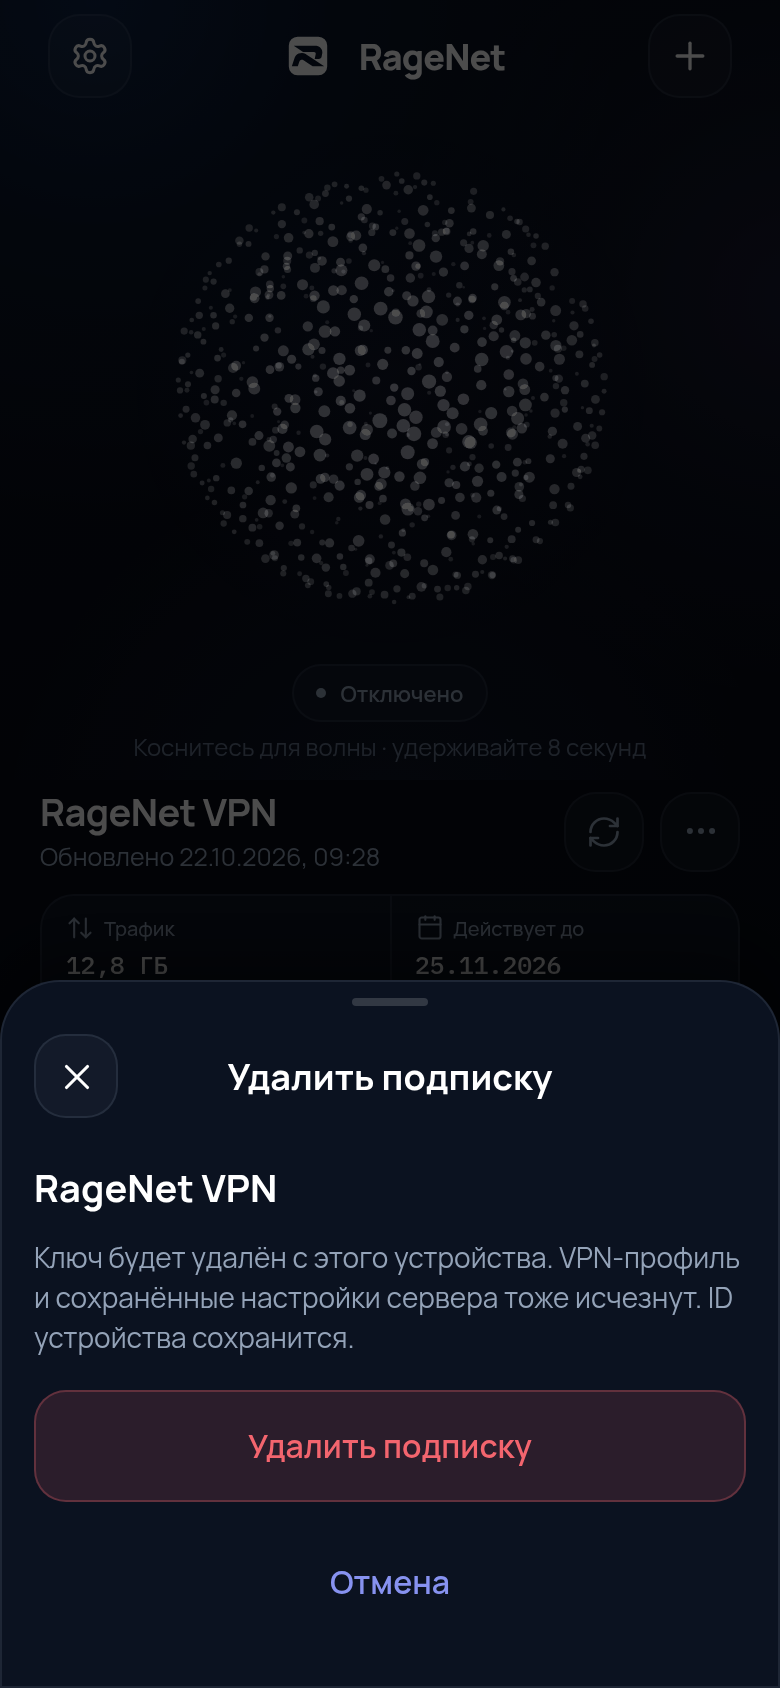
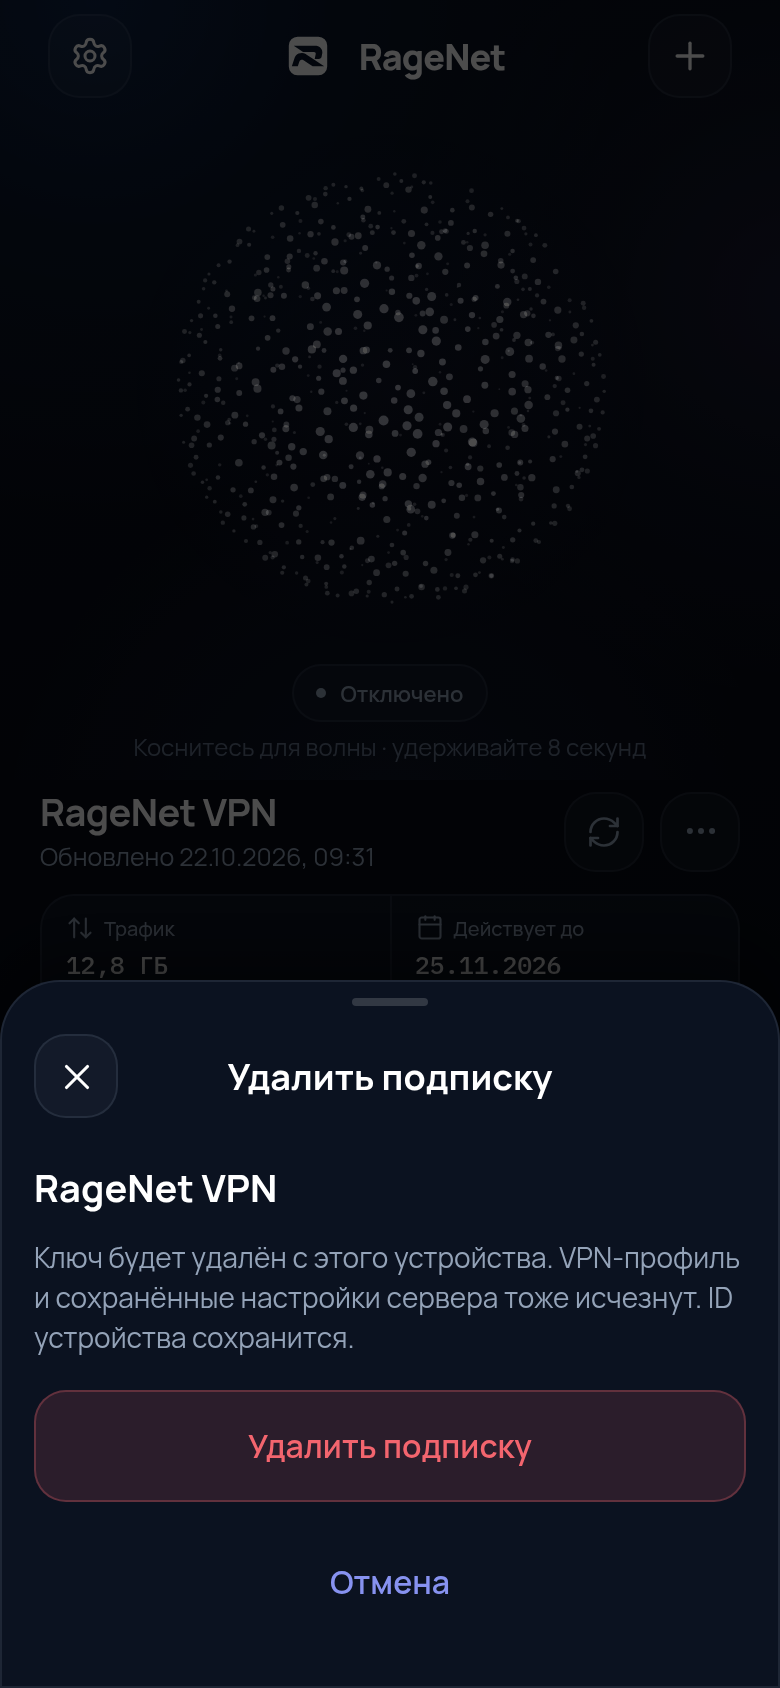
fix(ui): ease the charge tremble and thin the particle cloud

Changed region(s): [[0.2769, 0.1232, 0.6769, 0.3389], [0.7077, 0.1848, 0.7385, 0.2464], [0.4615, 0.4929, 0.4923, 0.5237]]

diff --git a/packages/particles/src/simulation.ts b/packages/particles/src/simulation.ts
@@ -62,6 +62,8 @@ export class ParticleSphereSimulation {
   private waveY = 0.5;
   private waveStrength = 0;
   private gatherLevel = 0;
+  private vibrationLevel = 0;
+  private vibrationTarget = 0;
 
   mode: ParticleMode = 'idle';
   charge = 0;
@@ -125,7 +127,7 @@ export class ParticleSphereSimulation {
       this.velocity[offset + 2] = (random() - 0.5) * 0.02;
 
       this.phase[index] = random() * TAU;
-      this.pointSize[index] = 1.1 + random() * 0.95;
+      this.pointSize[index] = 0.9 + random() * 0.72;
     }
   }
 
@@ -171,6 +173,11 @@ export class ParticleSphereSimulation {
   setGather(value: number): void {
     this.gatherLevel = clamp(value, 0, 1);
     this.gather = this.gatherLevel;
+  }
+
+  /** Visual tremble envelope. Kept separate from charge so it can ramp slowly. */
+  setVibration(value: number): void {
+    this.vibrationTarget = clamp(value, 0, 1.2);
   }
 
   /**
@@ -220,6 +227,7 @@ export class ParticleSphereSimulation {
     if (this.pointerEnergy < 0.001) this.pointerEnergy = 0;
 
     this.chargeLevel += (this.charge - this.chargeLevel) * Math.min(1, step * 8);
+    this.vibrationLevel += (this.vibrationTarget - this.vibrationLevel) * Math.min(1, step * 4);
 
     if (this.reactionActive) {
       this.reactionTime += step;
@@ -258,7 +266,7 @@ export class ParticleSphereSimulation {
     const damping = 7 + this.chargeLevel * 3 + this.gatherLevel * 2;
     const targetJitter =
       0.0025 +
-      this.chargeLevel * 0.018 +
+      this.vibrationLevel * 0.014 +
       (this.mode === 'connecting' ? 0.004 : 0) +
       (this.mode === 'connected' ? 0.0015 : 0) +
       this.impulse * 0.012;
@@ -440,15 +448,16 @@ export class ParticleSphereSimulation {
 
       // Charge feedback is a deliberate high-frequency tremble. It is applied
       // in screen space so it never destabilises the spring simulation.
-      if (this.chargeLevel > 0.001) {
-        const tremble = this.chargeLevel * 4.6;
+      if (this.vibrationLevel > 0.001) {
+        const tremble = this.vibrationLevel * 3.4;
         const phase = this.phase[index];
+        const speed = 0.48 + this.vibrationLevel * 0.82;
         const tremorX =
-          Math.sin(this.time * (22 + phase * 8) + phase * 19) +
-          Math.sin(this.time * (37 + phase * 5) + phase * 7) * 0.45;
+          Math.sin(this.time * (10 + phase * 4) * speed + phase * 19) +
+          Math.sin(this.time * (17 + phase * 3) * speed + phase * 7) * 0.35;
         const tremorY =
-          Math.cos(this.time * (19 + phase * 9) + phase * 23) +
-          Math.cos(this.time * (33 + phase * 6) + phase * 11) * 0.4;
+          Math.cos(this.time * (9 + phase * 5) * speed + phase * 23) +
+          Math.cos(this.time * (15 + phase * 4) * speed + phase * 11) * 0.3;
         screenX += tremorX * tremble;
         screenY += tremorY * tremble;
       }
@@ -457,7 +466,7 @@ export class ParticleSphereSimulation {
       projected[output] = screenX;
       projected[output + 1] = screenY;
       projected[output + 2] =
-        (0.55 + depth * 1.5 + this.chargeLevel * 0.1) *
+        (0.48 + depth * 1.25 + this.chargeLevel * 0.08) *
         (size / 300) *
         this.pointSize[index] *
         (1 + this.reaction * 0.18 + this.burstGlow * 0.2);

diff --git a/packages/ui/src/components/particles/ParticleSphere.tsx b/packages/ui/src/components/particles/ParticleSphere.tsx
@@ -118,6 +118,7 @@ export function ParticleSphere({
     clearTimers();
     stopHapticRamp();
     simulation.setCharge(0);
+    simulation.setVibration(0);
     onChargeProgress?.(null);
   };
 
@@ -127,8 +128,8 @@ export function ParticleSphere({
     clearTimers();
     stopHapticRamp();
     simulation.setCharge(1);
+    simulation.setVibration(1);
     onChargeProgress?.(1);
-    startHapticRamp(GATHER_MS + COMPRESS_HOLD_MS, 220);
 
     const startedAt = performance.now();
     let released = false;
@@ -149,6 +150,7 @@ export function ParticleSphere({
           released = true;
           stopHapticRamp();
           simulation.setPointer(null, null);
+          simulation.setVibration(0);
           simulation.setGather(0);
           simulation.triggerBurst();
           chargeHaptic('light');
@@ -186,6 +188,7 @@ export function ParticleSphere({
     burstStarted.current = false;
     simulation.setGather(0);
     simulation.setCharge(0);
+    simulation.setVibration(0);
     reportedCharge.current = 0;
     onChargeProgress?.(0);
     pressOrigin.current = { x: locationX / size, y: locationY / size };
@@ -197,6 +200,7 @@ export function ParticleSphere({
       if (!pressing.current) return;
       const progress = Math.min(1, (Date.now() - pressStartedAt.current) / HOLD_MS);
       simulation.setCharge(progress);
+      simulation.setVibration(progress ** 3);
       if (progress >= 1 || progress - reportedCharge.current >= 0.02) {
         reportedCharge.current = progress;
         onChargeProgress?.(progress);

diff --git a/packages/ui/src/components/particles/ParticleRenderer.native.tsx b/packages/ui/src/components/particles/ParticleRenderer.native.tsx
@@ -69,7 +69,7 @@ export function ParticleRenderer({ simulation, size, mode }: ParticleRendererPro
             Math.round(current[1] + boost),
           )}, ${Math.min(255, Math.round(current[2] + boost))})`,
         );
-        setStrokeWidth(1.45 + simulation.charge * 0.4 + simulation.reaction * 0.2);
+        setStrokeWidth(1.2 + simulation.charge * 0.3 + simulation.reaction * 0.15);
         const wave = simulation.getWave();
         setWaveRing(
           wave

diff --git a/README.md b/README.md
@@ -2,7 +2,7 @@
 
 Кроссплатформенный клиент RageNet на React Native (мобильные) и Tauri + React Native Web (десктоп). Ядро — Xray-core через `libXray`, с встроенным TUN-инбаундом.
 
-> **Статус: Phase 0, версия 0.1.28.** Это рабочий UI-прототип и фундамент проекта, а не готовый VPN-клиент. Реальный туннель, подпись iOS и привилегированный desktop-helper ещё не подключены. План и даты — в [docs/ROADMAP.md](docs/ROADMAP.md), версии — в [docs/VERSIONING.md](docs/VERSIONING.md).
+> **Статус: Phase 0, версия 0.1.29.** Это рабочий UI-прототип и фундамент проекта, а не готовый VPN-клиент. Реальный туннель, подпись iOS и привилегированный desktop-helper ещё не подключены. План и даты — в [docs/ROADMAP.md](docs/ROADMAP.md), версии — в [docs/VERSIONING.md](docs/VERSIONING.md).
 
 ## Что уже работает
 

diff --git a/docs/ROADMAP.md b/docs/ROADMAP.md
@@ -1,7 +1,7 @@
 # RageNet app — roadmap
 
 **Статус:** Phase 0 завершён, Phase 1–2 в работе
-**Версия:** 0.1.28
+**Версия:** 0.1.29
 **Дата обновления:** 21 октября 2026
 **Репозиторий:** `ragenet-app` (клиент; backend/cabinet — в основном репозитории RageNet VPN)
 
@@ -39,7 +39,7 @@
 
 ### Phase 0 — Foundation
 
-**Статус:** done · **Версия:** 0.1.28
+**Статус:** done · **Версия:** 0.1.29
 
 - Монорепо, дизайн-система, экраны.
 - Парсер подписок и сборщик Xray-конфига.

diff --git a/CHANGELOG.md b/CHANGELOG.md
@@ -7,6 +7,18 @@ and this project adheres to [Semantic Versioning](https://semver.org/).
 
 ## [Unreleased]
 
+## [0.1.29] - 2026-10-22
+
+### Changed
+
+- Particle tremble now ramps in cubically, stays low through the first half of
+  the hold, and accelerates only near the release.
+- The tremble frequency is slower at rest and rises with the charge instead of
+  starting at full speed.
+- Vibration fades out during the burst rather than snapping off.
+- Particle dots, especially foreground dots, are slightly smaller; native
+  stroke widths were reduced to match.
+
 ## [0.1.28] - 2026-10-22
 
 ### Changed

diff --git a/docs/PHASE0.md b/docs/PHASE0.md
@@ -1,6 +1,6 @@
 # Phase 0 — foundation
 
-**Status:** done · **App version:** 0.1.28 · **Next:** Phase 1 (Android VPN MVP)
+**Status:** done · **App version:** 0.1.29 · **Next:** Phase 1 (Android VPN MVP)
 
 See [ROADMAP.md](ROADMAP.md) for dates and [VERSIONING.md](VERSIONING.md) for
 release rules.

diff --git a/docs/BUILDS.md b/docs/BUILDS.md
@@ -94,8 +94,8 @@ Artifacts appear at the bottom of the run:
 ### Tag release
 
 ```bash
-git tag app-v0.1.28
-git push origin app-v0.1.28
+git tag app-v0.1.29
+git push origin app-v0.1.29
 ```
 
 Both workflows also run on `app-v*` tags. Artifacts are available on each run
